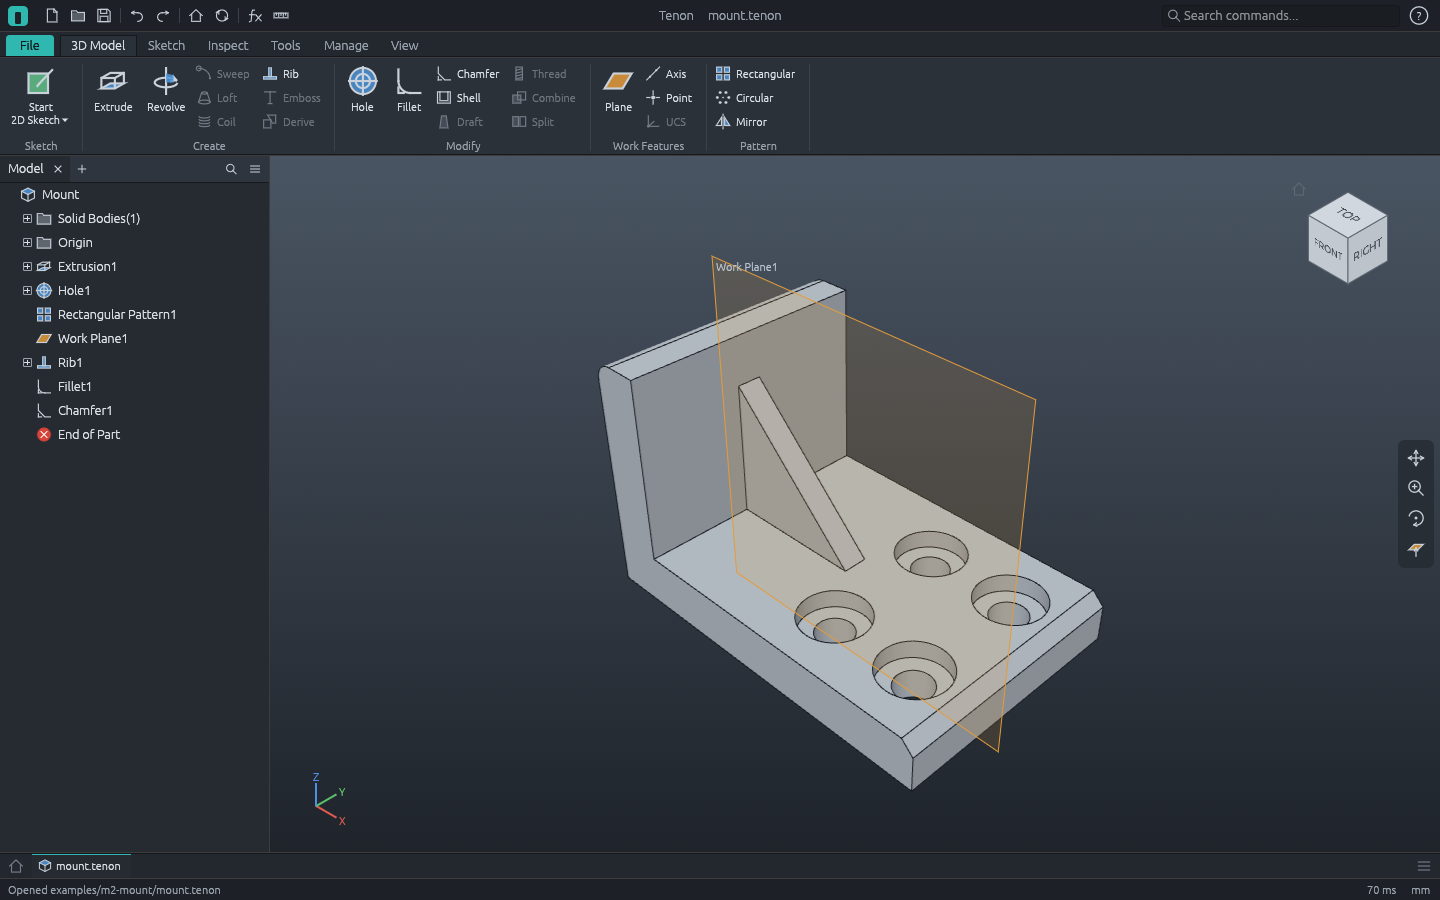
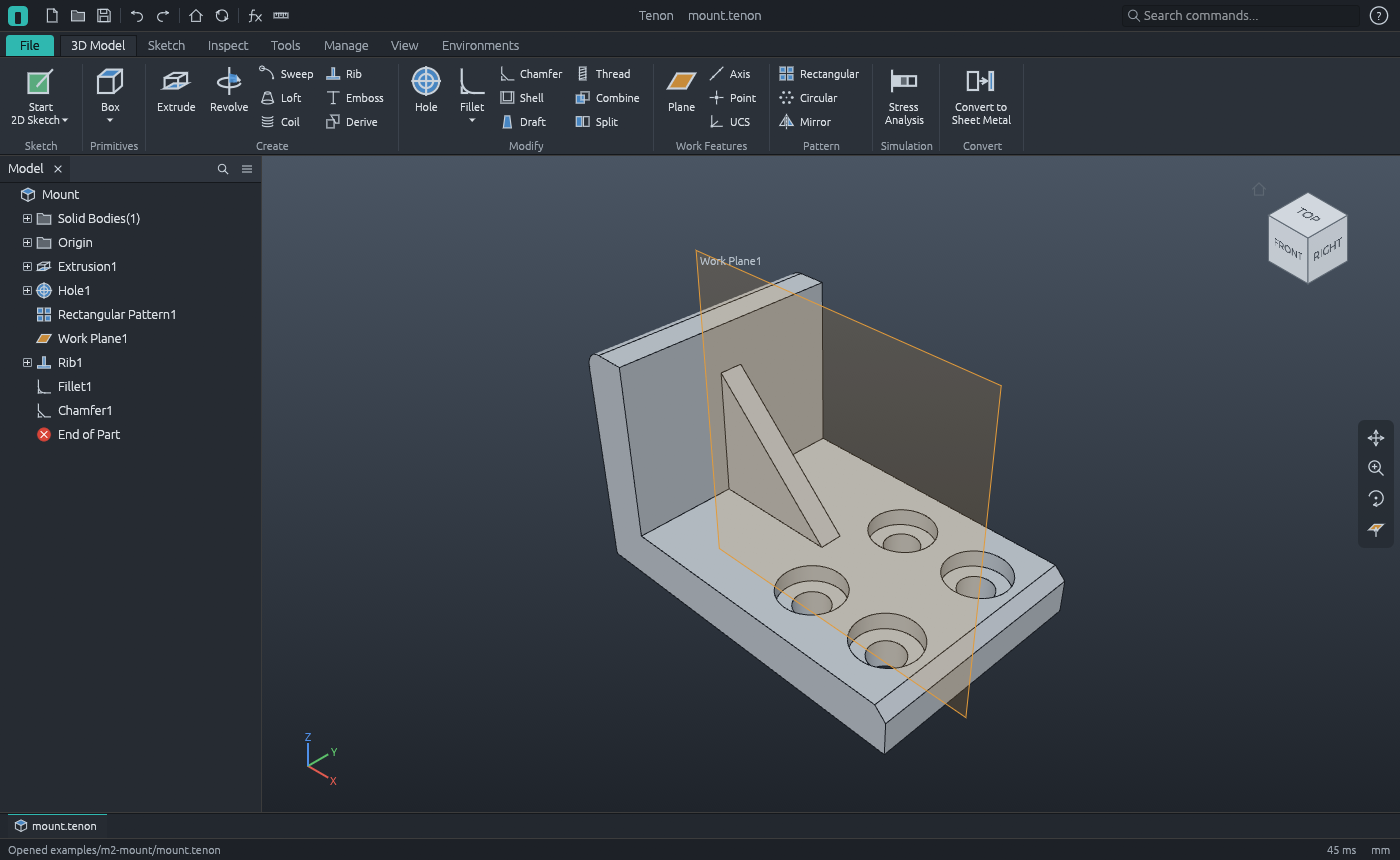
The pictures the docs show, taken again of the window as it is now

diff --git a/ATTRIBUTION.md b/ATTRIBUTION.md
@@ -64,7 +64,7 @@ Standard sizes and physical constants held in code:
 | `examples/m1-bracket/bracket.stl` | Tenon contributors | generated: same command | MIT OR Apache-2.0 | Original |
 | `examples/m1-bracket/bracket.png` | Tenon contributors | generated: same command (software render) | MIT OR Apache-2.0 | Original |
 | `examples/m1-bracket/bracket-thick-base.png` | Tenon contributors | generated: same command (software render) | MIT OR Apache-2.0 | Original |
-| `examples/m1-bracket/workbench.png` | Tenon contributors | screenshot of Tenon itself: `tenon examples/m1-bracket/bracket.tenon --screenshot examples/m1-bracket/workbench.png` | MIT OR Apache-2.0 | Original; no third-party UI |
+| `examples/m1-bracket/workbench.png` | Tenon contributors | screenshot of Tenon itself: `tenon examples/m1-bracket/bracket.tenon --screenshot examples/m1-bracket/workbench.png --size 1400x860` | MIT OR Apache-2.0 | Original; no third-party UI |
 | `examples/m2-enclosure/README.md` | Tenon contributors | written for this repository | MIT OR Apache-2.0 | Original |
 | `examples/m2-enclosure/enclosure.json` | Tenon contributors | written for this repository (the M2 demo command script) | MIT OR Apache-2.0 | Original |
 | `examples/m2-enclosure/enclosure.tenon` | Tenon contributors | generated: `tenon-cli run examples/m2-enclosure/enclosure.json --out examples/m2-enclosure` | MIT OR Apache-2.0 | Original |
@@ -72,7 +72,7 @@ Standard sizes and physical constants held in code:
 | `examples/m2-enclosure/enclosure.stl` | Tenon contributors | generated: same command | MIT OR Apache-2.0 | Original |
 | `examples/m2-enclosure/enclosure.png` | Tenon contributors | generated: same command (software render) | MIT OR Apache-2.0 | Original |
 | `examples/m2-enclosure/enclosure-larger.png` | Tenon contributors | generated: same command (software render at L = 100, H = 40) | MIT OR Apache-2.0 | Original |
-| `examples/m2-enclosure/workbench.png` | Tenon contributors | generated: `tenon examples/m2-enclosure/enclosure.tenon --screenshot examples/m2-enclosure/workbench.png` | MIT OR Apache-2.0 | Original |
+| `examples/m2-enclosure/workbench.png` | Tenon contributors | generated: `tenon examples/m2-enclosure/enclosure.tenon --screenshot examples/m2-enclosure/workbench.png --size 1400x860` | MIT OR Apache-2.0 | Original |
 | `examples/m3-pivot/README.md` | Tenon contributors | written for this repository | MIT OR Apache-2.0 | Original |
 | `examples/m3-pivot/pivot.json` | Tenon contributors | written for this repository (the M3 demo command script) | MIT OR Apache-2.0 | Original |
 | `examples/m3-pivot/base.tenon` | Tenon contributors | generated: `tenon-cli run examples/m3-pivot/pivot.json --out examples/m3-pivot` | MIT OR Apache-2.0 | Original |
@@ -84,7 +84,7 @@ Standard sizes and physical constants held in code:
 | `examples/m3-pivot/pivot-bom.csv` | Tenon contributors | generated: same command | MIT OR Apache-2.0 | Original |
 | `examples/m3-pivot/pivot.png` | Tenon contributors | generated: same command (software render) | MIT OR Apache-2.0 | Original |
 | `examples/m3-pivot/pivot-exploded.png` | Tenon contributors | generated: same command (software render, exploded) | MIT OR Apache-2.0 | Original |
-| `examples/m3-pivot/workbench.png` | Tenon contributors | generated: `tenon examples/m3-pivot/pivot.tenonasm --run asm.dof --screenshot examples/m3-pivot/workbench.png` | MIT OR Apache-2.0 | Original |
+| `examples/m3-pivot/workbench.png` | Tenon contributors | generated: `tenon examples/m3-pivot/pivot.tenonasm --run asm.dof --screenshot examples/m3-pivot/workbench.png --size 1400x860` | MIT OR Apache-2.0 | Original |
 | `examples/m4-plate/README.md` | Tenon contributors | written for this repository | MIT OR Apache-2.0 | Original |
 | `examples/m4-plate/plate.json` | Tenon contributors | written for this repository (the M4 demo command script) | MIT OR Apache-2.0 | Original |
 | `examples/m4-plate/plate.tenon` | Tenon contributors | generated: `tenon-cli run examples/m4-plate/plate.json --out examples/m4-plate` | MIT OR Apache-2.0 | Original |
@@ -96,7 +96,7 @@ Standard sizes and physical constants held in code:
 | `examples/m4-plate/plate.dxf` | Tenon contributors | generated: same command | MIT OR Apache-2.0 | Original |
 | `examples/m4-plate/plate-sheet1.png` | Tenon contributors | generated: same command (software render of sheet 1) | MIT OR Apache-2.0 | Original |
 | `examples/m4-plate/plate-sheet2.png` | Tenon contributors | generated: same command (software render of sheet 2) | MIT OR Apache-2.0 | Original |
-| `examples/m4-plate/workbench.png` | Tenon contributors | generated: `tenon examples/m4-plate/plate.tenondrw --screenshot examples/m4-plate/workbench.png` | MIT OR Apache-2.0 | Original |
+| `examples/m4-plate/workbench.png` | Tenon contributors | generated: `tenon examples/m4-plate/plate.tenondrw --screenshot examples/m4-plate/workbench.png --size 1400x860` | MIT OR Apache-2.0 | Original |
 | `examples/m6-fittings/README.md` | Tenon contributors | written for this repository | MIT OR Apache-2.0 | Original |
 | `examples/m6-fittings/fittings.json` | Tenon contributors | written for this repository (the M6 demo command script) | MIT OR Apache-2.0 | Original |
 | `examples/m6-fittings/spring.tenon` | Tenon contributors | generated: `tenon-cli run examples/m6-fittings/fittings.json --out examples/m6-fittings` | MIT OR Apache-2.0 | Original |
@@ -114,9 +114,9 @@ Standard sizes and physical constants held in code:
 | `examples/m6-fittings/nozzle.png` | Tenon contributors | generated: same command (software render) | MIT OR Apache-2.0 | Original |
 | `examples/m6-fittings/nozzle-section.png` | Tenon contributors | generated: same command (software render of the split nozzle) | MIT OR Apache-2.0 | Original |
 | `examples/m6-fittings/fittings.png` | Tenon contributors | generated: same command (software render of the assembly) | MIT OR Apache-2.0 | Original |
-| `examples/m6-fittings/workbench.png` | Tenon contributors | generated: `tenon examples/m6-fittings/fittings.tenonasm --screenshot examples/m6-fittings/workbench.png` | MIT OR Apache-2.0 | Original; no third-party UI |
-| `examples/m6-fittings/properties.png` | Tenon contributors | generated: `tenon examples/m6-fittings/nozzle.tenon --run inspect.mass --screenshot examples/m6-fittings/properties.png` | MIT OR Apache-2.0 | Original; no third-party UI |
-| `examples/m6-fittings/design-table.png` | Tenon contributors | generated: `tenon examples/m6-fittings/spring.tenon --run tools.table --screenshot examples/m6-fittings/design-table.png` | MIT OR Apache-2.0 | Original; no third-party UI |
+| `examples/m6-fittings/workbench.png` | Tenon contributors | generated: `tenon examples/m6-fittings/fittings.tenonasm --screenshot examples/m6-fittings/workbench.png --size 1400x860` | MIT OR Apache-2.0 | Original; no third-party UI |
+| `examples/m6-fittings/properties.png` | Tenon contributors | generated: `tenon examples/m6-fittings/nozzle.tenon --run inspect.mass --screenshot examples/m6-fittings/properties.png --size 1400x860` | MIT OR Apache-2.0 | Original; no third-party UI |
+| `examples/m6-fittings/design-table.png` | Tenon contributors | generated: `tenon examples/m6-fittings/spring.tenon --run tools.table --screenshot examples/m6-fittings/design-table.png --size 1400x860` | MIT OR Apache-2.0 | Original; no third-party UI |
 | `examples/m7-end-cap/README.md` | Tenon contributors | written for this repository | MIT OR Apache-2.0 | Original |
 | `examples/m7-end-cap/end-cap.json` | Tenon contributors | written for this repository (the M7 demo command script) | MIT OR Apache-2.0 | Original |
 | `examples/m7-end-cap/end-cap.tenon` | Tenon contributors | generated: `tenon-cli run examples/m7-end-cap/end-cap.json --out examples/m7-end-cap` | MIT OR Apache-2.0 | Original |
@@ -130,9 +130,9 @@ Standard sizes and physical constants held in code:
 | `examples/m7-end-cap/bar.png` | Tenon contributors | generated: same command (software render) | MIT OR Apache-2.0 | Original |
 | `examples/m7-end-cap/end-cap.png` | Tenon contributors | generated: same command (software render) | MIT OR Apache-2.0 | Original |
 | `examples/m7-end-cap/capped-bar.png` | Tenon contributors | generated: same command (software render of the assembly) | MIT OR Apache-2.0 | Original |
-| `examples/m7-end-cap/workbench.png` | Tenon contributors | generated: `tenon examples/m7-end-cap/capped-bar.tenonasm --screenshot examples/m7-end-cap/workbench.png` | MIT OR Apache-2.0 | Original; no third-party UI |
-| `examples/m7-end-cap/print-check.png` | Tenon contributors | generated: `tenon examples/m7-end-cap/end-cap.tenon --run inspect.print --screenshot examples/m7-end-cap/print-check.png` | MIT OR Apache-2.0 | Original; no third-party UI |
-| `examples/m7-end-cap/library.png` | Tenon contributors | generated: `tenon examples/m7-end-cap/capped-bar.tenonasm --run tools.library --screenshot examples/m7-end-cap/library.png` | MIT OR Apache-2.0 | Original; no third-party UI |
+| `examples/m7-end-cap/workbench.png` | Tenon contributors | generated: `tenon examples/m7-end-cap/capped-bar.tenonasm --screenshot examples/m7-end-cap/workbench.png --size 1400x860` | MIT OR Apache-2.0 | Original; no third-party UI |
+| `examples/m7-end-cap/print-check.png` | Tenon contributors | generated: `tenon examples/m7-end-cap/end-cap.tenon --run inspect.print --screenshot examples/m7-end-cap/print-check.png --size 1400x860` | MIT OR Apache-2.0 | Original; no third-party UI |
+| `examples/m7-end-cap/library.png` | Tenon contributors | generated: `tenon examples/m7-end-cap/capped-bar.tenonasm --run tools.library --screenshot examples/m7-end-cap/library.png --size 1400x860` | MIT OR Apache-2.0 | Original; no third-party UI |
 | `examples/m8-tray/README.md` | Tenon contributors | written for this repository | MIT OR Apache-2.0 | Original |
 | `examples/m8-tray/tray.json` | Tenon contributors | written for this repository (the M8 demo command script) | MIT OR Apache-2.0 | Original |
 | `examples/m8-tray/tray.tenon` | Tenon contributors | generated: `tenon-cli run examples/m8-tray/tray.json --out examples/m8-tray` | MIT OR Apache-2.0 | Original |
@@ -140,11 +140,11 @@ Standard sizes and physical constants held in code:
 | `examples/m8-tray/tray-flat.svg` | Tenon contributors | generated: same command | MIT OR Apache-2.0 | Original |
 | `examples/m8-tray/tray.step` | Tenon contributors | generated: same command | MIT OR Apache-2.0 | Original |
 | `examples/m8-tray/tray.png` | Tenon contributors | generated: same command (software render) | MIT OR Apache-2.0 | Original |
-| `examples/m8-tray/workbench.png` | Tenon contributors | generated: `tenon examples/m8-tray/tray.tenon --screenshot examples/m8-tray/workbench.png` | MIT OR Apache-2.0 | Original; no third-party UI |
-| `examples/m8-tray/flat-pattern.png` | Tenon contributors | generated: `tenon examples/m8-tray/tray.tenon --run sheet.flat_view --screenshot examples/m8-tray/flat-pattern.png` | MIT OR Apache-2.0 | Original; no third-party UI |
-| `examples/m8-tray/flange.png` | Tenon contributors | generated: `tenon examples/m8-tray/tray.tenon --run sheet.flange --screenshot examples/m8-tray/flange.png` | MIT OR Apache-2.0 | Original; no third-party UI |
-| `examples/m8-tray/hem.png` | Tenon contributors | generated: `tenon examples/m8-tray/tray.tenon --run sheet.hem --screenshot examples/m8-tray/hem.png` | MIT OR Apache-2.0 | Original; no third-party UI |
-| `examples/m8-tray/defaults.png` | Tenon contributors | generated: `tenon examples/m8-tray/tray.tenon --run sheet.defaults --screenshot examples/m8-tray/defaults.png` | MIT OR Apache-2.0 | Original; no third-party UI |
+| `examples/m8-tray/workbench.png` | Tenon contributors | generated: `tenon examples/m8-tray/tray.tenon --screenshot examples/m8-tray/workbench.png --size 1400x860` | MIT OR Apache-2.0 | Original; no third-party UI |
+| `examples/m8-tray/flat-pattern.png` | Tenon contributors | generated: `tenon examples/m8-tray/tray.tenon --run sheet.flat_view --screenshot examples/m8-tray/flat-pattern.png --size 1400x860` | MIT OR Apache-2.0 | Original; no third-party UI |
+| `examples/m8-tray/flange.png` | Tenon contributors | generated: `tenon examples/m8-tray/tray.tenon --run sheet.flange --screenshot examples/m8-tray/flange.png --size 1400x860` | MIT OR Apache-2.0 | Original; no third-party UI |
+| `examples/m8-tray/hem.png` | Tenon contributors | generated: `tenon examples/m8-tray/tray.tenon --run sheet.hem --screenshot examples/m8-tray/hem.png --size 1400x860` | MIT OR Apache-2.0 | Original; no third-party UI |
+| `examples/m8-tray/defaults.png` | Tenon contributors | generated: `tenon examples/m8-tray/tray.tenon --run sheet.defaults --screenshot examples/m8-tray/defaults.png --size 1400x860` | MIT OR Apache-2.0 | Original; no third-party UI |
 | `examples/m2-mount/README.md` | Tenon contributors | written for this repository | MIT OR Apache-2.0 | Original |
 | `examples/m2-mount/mount.json` | Tenon contributors | written for this repository (a second M2 example script) | MIT OR Apache-2.0 | Original |
 | `examples/m2-mount/mount.tenon` | Tenon contributors | generated: `tenon-cli run examples/m2-mount/mount.json --out examples/m2-mount` | MIT OR Apache-2.0 | Original |
@@ -152,4 +152,4 @@ Standard sizes and physical constants held in code:
 | `examples/m2-mount/mount.stl` | Tenon contributors | generated: same command | MIT OR Apache-2.0 | Original |
 | `examples/m2-mount/mount.png` | Tenon contributors | generated: same command (software render) | MIT OR Apache-2.0 | Original |
 | `examples/m2-mount/mount-thick.png` | Tenon contributors | generated: same command (software render at t = 10) | MIT OR Apache-2.0 | Original |
-| `examples/m2-mount/workbench.png` | Tenon contributors | generated: `tenon examples/m2-mount/mount.tenon --screenshot examples/m2-mount/workbench.png` | MIT OR Apache-2.0 | Original |
+| `examples/m2-mount/workbench.png` | Tenon contributors | generated: `tenon examples/m2-mount/mount.tenon --screenshot examples/m2-mount/workbench.png --size 1400x860` | MIT OR Apache-2.0 | Original |
